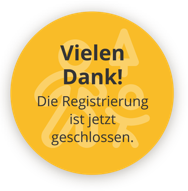
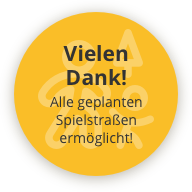
Revert closing spielstraßen signups

diff --git a/src/pages/Spielstrassen/pages/Landing.tsx b/src/pages/Spielstrassen/pages/Landing.tsx
@@ -1,6 +1,6 @@
 import React from 'react';
 import styled from 'styled-components';
-import { Container } from '@material-ui/core';
+import { Container, Paper } from '@material-ui/core';
 
 import config from '~/pages/Spielstrassen/config';
 import Button from '~/components2/Button';
@@ -17,6 +17,7 @@ import DoneBadgeImg2 from '~/images/spielstrassen/done-badge@2x.png';
 import DoneBadgeImg3 from '~/images/spielstrassen/done-badge@3x.png';
 import Header from '../components/Header';
 import Logo from '../components/Logo';
+import Notice from '../components/Notice';
 import { media } from '~/styles/utils';
 
 const CTA = styled(Button)`
@@ -89,13 +90,7 @@ const Landing = () => {
           Bezirksamt an Sonn- und Feiertagen jeweils von 12-18 Uhr Ihre
           Unterstützung.
         </p>
-        <p>
-          <strong>
-            Sieben ist die magische Zahl – wenn sich eine Gruppe von mindestens
-            sieben Anwohner:innen zur Betreuung der Spielstraße findet, kann
-            diese eingerichtet werden.
-          </strong>
-        </p>
+        <Notice />
         <h2>Wie funktioniert das genau?</h2>
         <ol>
           <li>
@@ -119,11 +114,11 @@ const Landing = () => {
           </li>
         </ol>
         <Link to={config.routes.spielstrassen.streets}>
-          <CTA>Zur Spielstraßen-Karte</CTA>
+          <CTA>Jetzt eine Spielstraße unterstützen</CTA>
         </Link>
         <Highlight>
-          Registrierung jetzt geschlossen! Für alle Spielstraßen haben sich
-          ausreichend Unterstützer:innen gemeldet.
+          Für alle Spielstraßen haben sich ausreichend Unterstützer:innen
+          gemeldet.
         </Highlight>
         <h2>Was müssen Sie vor Ort tun?</h2>
         <p>
@@ -197,11 +192,11 @@ const Landing = () => {
           Gießaktionen geholfen werden kann.
         </p>
         <Link to={config.routes.spielstrassen.streets}>
-          <CTA>Zur Spielstraßen-Karte</CTA>
+          <CTA>Jetzt eine Spielstraße unterstützen</CTA>
         </Link>
         <Highlight>
-          Registrierung jetzt geschlossen! Für alle Spielstraßen haben sich
-          ausreichend Unterstützer:innen gemeldet.
+          Für alle Spielstraßen haben sich ausreichend Unterstützer:innen
+          gemeldet.
         </Highlight>
         <Logo />
       </Container>

diff --git a/src/pages/Spielstrassen/pages/Register.tsx b/src/pages/Spielstrassen/pages/Register.tsx
@@ -14,6 +14,7 @@ import KiezNotFound from '../components/NotFound';
 import KiezMap from '../components/KiezMap';
 import { RequestState } from '../state';
 import { getStreetInfo } from '~/pages/Spielstrassen/utils';
+import Notice from '../components/Notice';
 
 const SupporterInfo = styled.div`
   display: flex;
@@ -96,19 +97,14 @@ const Register = ({ match, streets, streetRequest }) => {
         </Section>
         <Section>
           <h2>Diese Spielstrasse benötigt Ihre Unterstützung!</h2>
+          <Notice />
           <p>
-            Die Spielstraße kann nur eingerichtet werden, wenn mindestens 7
-            Anwohner:innen die Betreuung vor Ort übernehmen. Hier finden Sie{' '}
+            Hier finden Sie{' '}
             <Link to={config.routes.spielstrassen.landing} className="internal">
               weitere Informationen
             </Link>{' '}
             zur Einrichtung der Spielstraßen.
           </p>
-
-          <Highlight>
-            {/* @ts-ignore */}
-            Registrierung möglich bis <span>29. April 2020, 13 Uhr</span>!
-          </Highlight>
           <p>
             <strong>
               Melden Sie sich über dieses Formular an, um als Kiezlots:in in der{' '}

diff --git a/src/pages/Spielstrassen/index.tsx b/src/pages/Spielstrassen/index.tsx
@@ -8,7 +8,7 @@ import { connect } from 'react-redux';
 import config from '~/pages/Spielstrassen/config';
 import Landing from './pages/Landing';
 import Kieze from './pages/Kieze';
-// import Register from './pages/Register';
+import Register from './pages/Register';
 import Thanks from './pages/Thanks';
 import Markdown from '~/pages/Markdown';
 import history from '~/history';
@@ -114,10 +114,10 @@ const Spielstrassen = ({ dispatch }) => {
               path={config.routes.spielstrassen.streets}
               component={Kieze}
             />
-            <Redirect
+            <Route
               exact
-              from={config.routes.spielstrassen.register}
-              to={config.routes.spielstrassen.landing}
+              path={config.routes.spielstrassen.register}
+              component={Register}
             />
             <Route
               exact

diff --git a/src/pages/Spielstrassen/pages/Kieze.tsx b/src/pages/Spielstrassen/pages/Kieze.tsx
@@ -13,6 +13,7 @@ import KiezCard from '../components/KiezCard';
 import { RequestState } from '~/pages/Spielstrassen/state';
 import Loader from '~/components/Loader';
 import { Spielstrasse } from '../types';
+import Notice from '../components/Notice';
 
 const KiezListing = styled.div`
   margin: 1em 0 2em;
@@ -42,10 +43,7 @@ const Kieze = ({ streets, streetRequest }) => {
             srcSet={`${KiezKarte1} 450w, ${KiezKarte2} 750w, ${KiezKarte3} 1125w`}
           />
         </a>
-        <p>
-          Für alle Spielstraßen haben sich ausreichend Unterstützer:innen
-          gefunden. Registrierung nicht mehr möglich.
-        </p>
+        <Notice />
         {streetRequest.state === RequestState.pending ? (
           <Loader />
         ) : (

diff --git a/src/pages/Spielstrassen/components/Notice.tsx b/src/pages/Spielstrassen/components/Notice.tsx
@@ -1,0 +1,32 @@
+import React from 'react';
+import InfoIcon from '@material-ui/icons/Info';
+import styled from 'styled-components';
+import { Paper } from '@material-ui/core';
+import { media } from '~/styles/utils';
+
+const Wrapper = styled(Paper)`
+  display: flex;
+  padding: 0.5em;
+  margin: 1em 0;
+
+  ${media.m`
+    margin: 1em 0;
+  `};
+
+  svg {
+    margin: 0 0.5em;
+  }
+`;
+
+const Notice = () => (
+  <Wrapper elevation={3}>
+    <InfoIcon />
+    <div>
+      Alle Spielstraßen können eingerichtet werden, da die Mindestzahl an
+      Unterstützer:innen erreicht wurde. Sie können sich aber noch registrieren,
+      um die vorhandenen Kiezlots:innen zu unterstützen.
+    </div>
+  </Wrapper>
+);
+
+export default Notice;

diff --git a/src/pages/Spielstrassen/components/KiezCard.tsx b/src/pages/Spielstrassen/components/KiezCard.tsx
@@ -67,9 +67,7 @@ const Kiez = ({ kiez, street, supporters = 0 }) => {
           registriert
         </span>
         <Link to={signupUrl}>
-          <Button flat disabled>
-            Unterstützen
-          </Button>
+          <Button flat>Unterstützen</Button>
         </Link>
       </footer>
     </KiezCard>
